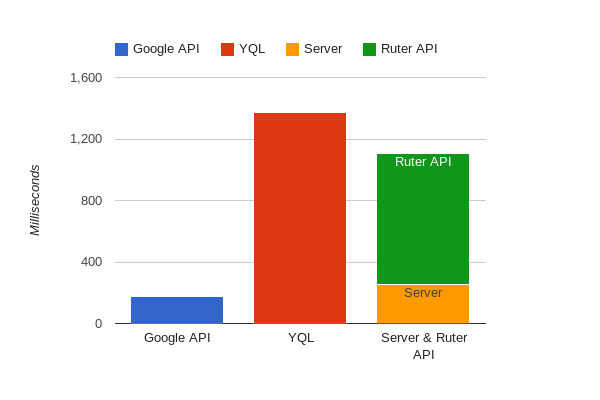
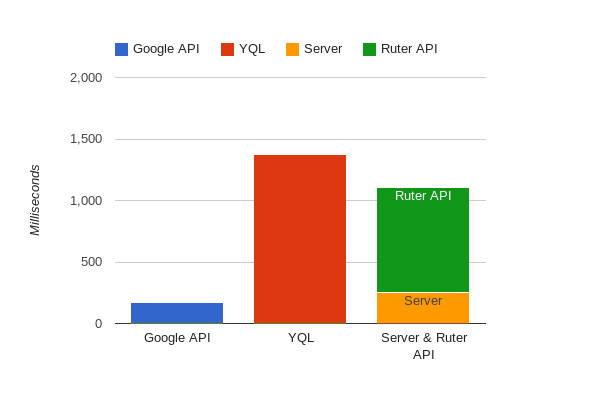
Wrote alot more on the report.

diff --git a/apitimes/chart.js b/apitimes/chart.js
@@ -40,7 +40,8 @@ function drawAnnotations() {
 	bar: { groupWidth: '75%' },
 	isStacked: true,
 	vAxis: {
-	    title: 'Milliseconds'
+	    title: 'Milliseconds',
+	    maxValue: 2000
 	}
     };
     var chart_div = document.getElementById('chart_div');

diff --git a/apitimes/chartLocalhost.js b/apitimes/chartLocalhost.js
@@ -40,7 +40,8 @@ function drawAnnotations() {
 	bar: { groupWidth: '75%' },
 	isStacked: true,
 	vAxis: {
-	    title: 'Milliseconds'
+	    title: 'Milliseconds',
+	    maxValue: 2000
 	}
     };
     var chart_div = document.getElementById('chart_div');

diff --git a/text/report.tex b/text/report.tex
@@ -1,4 +1,3 @@
-
 \documentclass[10pt,a4paper]{article}
 \usepackage[utf8]{inputenc}
 \usepackage[english]{babel}
@@ -6,7 +5,14 @@
 \usepackage{amsfonts}
 \usepackage{amssymb}
 \usepackage{graphicx}
+%\usepackage{caption}
+\usepackage{subcaption}
+\usepackage[backend=biber]{biblatex}
+\usepackage{url}
+\bibliography{references.bib}
 \begin{document}
+\tableofcontents
+\newpage
 \section{Introduction}
 In this bachelor thesis a program designed to make a transportation choice simpler is implemented. It is inspired by the pain I was having for choosing if I was going to wait for the bus to get home or if I should simply walk. What was quickest? And if the difference is negligible, then walking would be the healthier option.
 \section{Technical background}
@@ -18,15 +24,6 @@ Hypertext navigation, such as HTML, provides static web pages. These web pages a
 \subsection{Ruby on Rails}
 Ruby on Rails is an open source web application framework that can be used to develop dynamic websites. It is written in the Ruby programming language. 
 
-\subsection{Application Programming Interface (API)}
-Application Programming Interface is a set of routines, protocols and tools for building software applications. There are a wide range of APIs. For example, in a programming language a library provides functions for the programmer to use. The library's API explains how to use these functions for the programmer, so that the programmer don't need to look at the implementation of the functions.
-
-\subsection{Web API}
-A web API defines the interface through which interactions happen between an enterprise and application that use its assets. For the application to get these assets from the enterprise it has to send a HTTP request over a network. This request has to contain data that uses the web API for the enterprise to understand what asset the application want. When the enterprise has received the HTTP request, it sends back a HTTP response. This HTTP response is usually in XML or JSON format.
-\subsection{Mashup}
-A mashup is a web page that uses content from more than one source to create a single new service. An  example is taking data from several web services and displaying them on a web page.
-\subsection{YQL}
-Yahoo! Query Language is designed to retrieve and manipulate data from APIs. This allows users to get data from an API and remove information that is not needed.
 \subsection{AJAX}
 Asynchronous Javascript And XML (AJAX) is a group of web development tools used client side to make asynchronous web applications. With AJAX data can be sent from the client to the server without making changes on the displayed web page. Data can also be retrieved, and the web page can be changed without needing to change the whole web page. Even though the name implies use of XML, it is common to use JSON for data exchange. Most web browsers request that data transferred by using AJAX is only transferred between the client and the server on the same domain. It is therefore not possible to transfer data between the client and a server on another domain. This is called same-origin policy, and is used to increase security.
 
@@ -40,6 +37,17 @@ Asynchronous Javascript And XML (AJAX) is a group of web development tools used 
 
 \subsection{JSONP}
 JSONP is a way of sending and receiving data from the client web browser to another domain, thus avoiding the same origin policy. It works by exchanging data by using <script> tags. This tag is not enforced by the same origin policy. [http://bob.ippoli.to/archives/2005/12/05/remote-json-jsonp/]
+
+
+\subsection{Application Programming Interface (API)}
+Application Programming Interface is a set of routines, protocols and tools for building software applications. There are a wide range of APIs. For example, in a programming language a library provides functions for the programmer to use. The library's API explains how to use these functions for the programmer, so that the programmer don't need to look at the implementation of the functions.
+\subsection{Mashup}
+A mashup is a web page that uses content from more than one source to create a single new service. An  example is taking data from several web services and displaying them on a web page.
+\subsection{Web API}
+A web API defines the interface through which interactions happen between an enterprise and application that use its assets. For the application to get these assets from the enterprise it has to send a HTTP request over a network. This request has to contain data that uses the web API for the enterprise to understand what asset the application want. When the enterprise has received the HTTP request, it sends back a HTTP response. This HTTP response is usually in XML or JSON format.
+
+\subsection{YQL}
+Yahoo! Query Language is designed to retrieve and manipulate data from APIs. This allows users to get data from an API and remove information that is not needed.
 \subsection{Firebug}
 Firebug is a web browser extension for Firefox. It makes it possible to, among other things, track the time of AJAX and JSON.
 
@@ -50,7 +58,7 @@ Traceroute is a computer network tool for displaying the path of packets across 
 \centering
 \includegraphics[width=\textwidth]{../arch/arch}
 \caption{Architecture}
-\label{arch}
+\label{fig:arch}
 \end{figure}
 The web application uses four web APIs. Three of the APIs are accessed without going via the web server. The Google maps API is accessed by using the Google Maps javascript API. The weather data is accessed by using YQL. 
 
@@ -60,8 +68,9 @@ All of the APIs are accessed by using either AJAX or JSONP.
 \begin{figure}
 \centering
 \includegraphics[width=\textwidth]{../weather/access}
+
 \caption{Weather API}
-\label{weather}
+\label{fig:weather}
 \end{figure}
 
 To get the weather data the javascript uses JSONP to request data from YQL. It provides YQL with information about the weather API and the location (steps 1 and 2). YQL requests the information from the weather API (steps 3 and 4). The weather API finds the weather data and sends it to YQL(steps 5, 6 and 7). YQL extract the data from the XML document that the client required and sends this data in JSONP format to the client (steps 8, 9 and 10).
@@ -71,7 +80,7 @@ To get the weather data the javascript uses JSONP to request data from YQL. It p
 \centering
 \includegraphics[width=\textwidth]{../ruter/access}
 \caption{Public transport API}
-\label{public}
+\label{fig:public}
 \end{figure}
 To get the public transport information the client sends information source and destination with AJAX to the server (steps 1 and 2). The server converts the source and destination to UTM coordinates and sends a HTTP request to Ruter API (steps 3 and 4). The Ruter server finds several possible routes and sends an HTTP response back to the server (step 5, 6 and 7). The server chooses the first route and extracts the information needed and sends it using AJAX to the client (steps 8, 9 and 10).
 
@@ -80,53 +89,89 @@ To get the public transport information the client sends information source and 
 \centering
 \includegraphics[width=\textwidth]{../google/access}
 \caption{Google Maps API}
-\label{google}
+\label{fig:google}
 \end{figure}
 To get information about walking, cycling and driving the client side uses the Google Maps javascript API. This API also uses JSONP for exchange of data. The client uses the source and destination as arguments in the javascript call (steps 1 and 2). The Google API server try to find one or several routes that go between the source and the destination. It then sends the route(s) in JSON format to the client (steps 3, 4 and 5).
 
-End systems are connected together by a network of communication links and packet switches. 
-End systems attached to the Internet provide an Application Programming Interface that specifies how a program running on one end system asks the Internet infrastructure to deliver data to a specific destination program running on another end system. 
+% End systems are connected together by a network of communication links and packet switches. 
+% End systems attached to the Internet provide an Application Programming Interface that specifies how a program running on one end system asks the Internet infrastructure to deliver data to a specific destination program running on another end system. 
 
-An optical fiber is a thin, flexible medium that conducts pulses of light, with each pulse representing a bit. 
+% An optical fiber is a thin, flexible medium that conducts pulses of light, with each pulse representing a bit. 
 
 \section{Implementation}
 
 \section{Discussion}
 
 \subsection{Location of web API servers}
-By using traceroute it is possible to find the IP addresses of the web APIs used. By using a geolocation software it is possible to find the location of these IP addresses.
-\begin{figure}
-\centering
-\includegraphics[width=\textwidth]{../traceroute/heroku_markers}
-\caption{Server on Heroku}
-\label{traceroute_heroku}
-\end{figure}
+By using traceroute it is possible to find the IP addresses of the web APIs used. By using a geolocation software it is possible to find the location of these IP addresses. In figure \ref{fig:traceroute_heroku} the server is hosted by Heroku. In figure \ref{fig:traceroute_localhost} the web server is hosted on the client computer. 
 
 \begin{figure}
+\centering
+\begin{subfigure}{\textwidth}
+\includegraphics[width=\textwidth]{../traceroute/heroku_markers}
+\caption{Web server run remotely on Heroku.}
+\label{fig:traceroute_heroku}
+\end{subfigure}
+
+
+\begin{subfigure}{\textwidth}
 \centering
 \includegraphics[width=\textwidth]{../traceroute/localhost_markers}
-\caption{Server on localhost}
-\label{traceroute_localhost}
+\caption{Web server run locally on clients computer }
+\label{fig:traceroute_localhost}
+\end{subfigure}
+\caption{Each letter represents a location found by traceroute. A is the client and the web server when run locally. B is the Google Maps API server. C is the YQL server. D is heroku server. E is the Ruter API server and the YR API server.}
+\label{fig:traceroute}
 \end{figure}
+
+\subsection{Common access routes}
+Both architectures access the Google Maps javascript API, YQL API and weather API in the same manner. 
+
+\subsubsection{Accessing the met.no API server}
+In figure \ref{fig:traceroute} we see that when accessing the met.no API the HTTP request is first sent to the YQL API server (C in figure \ref{fig:traceroute} a and b). This is the same route as shown in figure \ref{fig:weather} step 1 and 2. The YQL server then sends an HTTP request to the met.no API server(E in figure \ref{fig:traceroute} a and b), as shown in figure \ref{fig:weather} step 3 and 4. The met.no API server then uses the information from the request and finds the weather data and sends it to the YQL server in XML server, step 5, 6 and 7 in figure \ref{fig:weather}. The YQL server extracts the needed information from the XML data, converts it to JSON and sends it back in an HTTP response to the client, step 8, 9 and 10 in figure \ref{fig:weather}.
+
+\subsubsection{Accessing the Google Maps API server}
+In figure \ref{fig:traceroute} the Google Maps API server is accessed by sending an HTTP request from the user (marker A) to the API server (marker B). This is show as step 1 and 2 in figure \ref{fig:google}. The API server finds route suggestions and send the data back in a HTTP response to the client. This is shown as step 3, 4 and 5 in figure \ref{fig:google}.
+
+\subsection{Web server access routes}
+When the web server is run locally, the Ruter API server access route is shorter. As seen in figure \ref{fig:public}, the data sent in steps 1, 2, 9 and 10 travels a shorter distance. 
+\subsubsection{Accessing the Ruter.no API server}
+\paragraph{Remote web server}
+In figure \ref{fig:traceroute_heroku} the client sends an HTTP request to the Heroku server at marker D. The Heroku server then sends an HTTP request to the Ruter API server at marker E. The response HTTP is then sent to the Heroku server. The heroku server processes the data and sends an HTTP response to the client.
+\paragraph{Local web server}
+In figure \ref{fig:traceroute_localhost} the client sends an HTTP request to the local server, which is also at marker A. The local server sends an HTTP request to the Ruter.no API server. The response HTTP is then sent to the local server. The local server processes the data and sends an HTTP response to the client.
+
+
+
 
 \subsection{Performance}
-By using Firebug it is possible to see how long the access time is for each of the APIs. 
+By using Firebug it is possible to see how long the access time is for each of the APIs. The times vary between each HTTP request because of different congestion on the network and different server load on the API servers. The results are a result of making 10 HTTP requests and take the average of the times. 
+
+\subsubsection{Common access route performance}
+In figure \ref{fig:time} is the access time for the application when the server is run remotely (figure \ref{fig:time_heroku}) and when run locally (figure \ref{fig:time_localhost}). 
+\paragraph{Google API server access time}
+In figure \ref{fig:google} and figure \ref{fig:traceroute} the access to the Google API access one less server than the rest of the API requests. This could give a sign that the access time should be shorter than for the other API accesses. In figure \ref{fig:time} a and b we see that the access time for the Google API server is under 200 milliseconds for both. Even though the distance between the client and the Google API server is longer than the client to the other intermediary servers, the time saved by only accessing one server instead of two gives a time benefit.
+\paragraph{met.no API access time}
+In figure \ref{fig:weather} and figure \ref{fig:traceroute} it shows that the access to the met.no API server requires an intermedia server access to the YQL API server. In figure \ref{fig:time} a and b it shows that the access time is between 1000 and 1400 ms. This is more than 5 times greater than the access time to the Google API server. One of the reasons is that the data retrieval requires two server accesses. Another reason can be that either or both of the servers hosting the APIs have a slower performance than Googles.
 
 \begin{figure}
 \centering
+\begin{subfigure}{\textwidth}
 \includegraphics[width=\textwidth]{../apitimes/apitiderHeroku}
 \caption{API access time with server running remote}
-\label{time_heroku}
-\end{figure}
-
-\begin{figure}
-\centering
+\label{fig:time_heroku}
+\end{subfigure}
+\begin{subfigure}{\textwidth}
 \includegraphics[width=\textwidth]{../apitimes/apitiderLocalhost}
 \caption{API access time with server running local}
-\label{time_localhost}
+\label{fig:time_localhost}
+\end{subfigure}
+\caption{API access times}
+\label{fig:time}
 \end{figure}
 
 \section{Conclusion}
+\printbibliography
 \end{document}
 %%% Local Variables:
 %%% mode: latex
